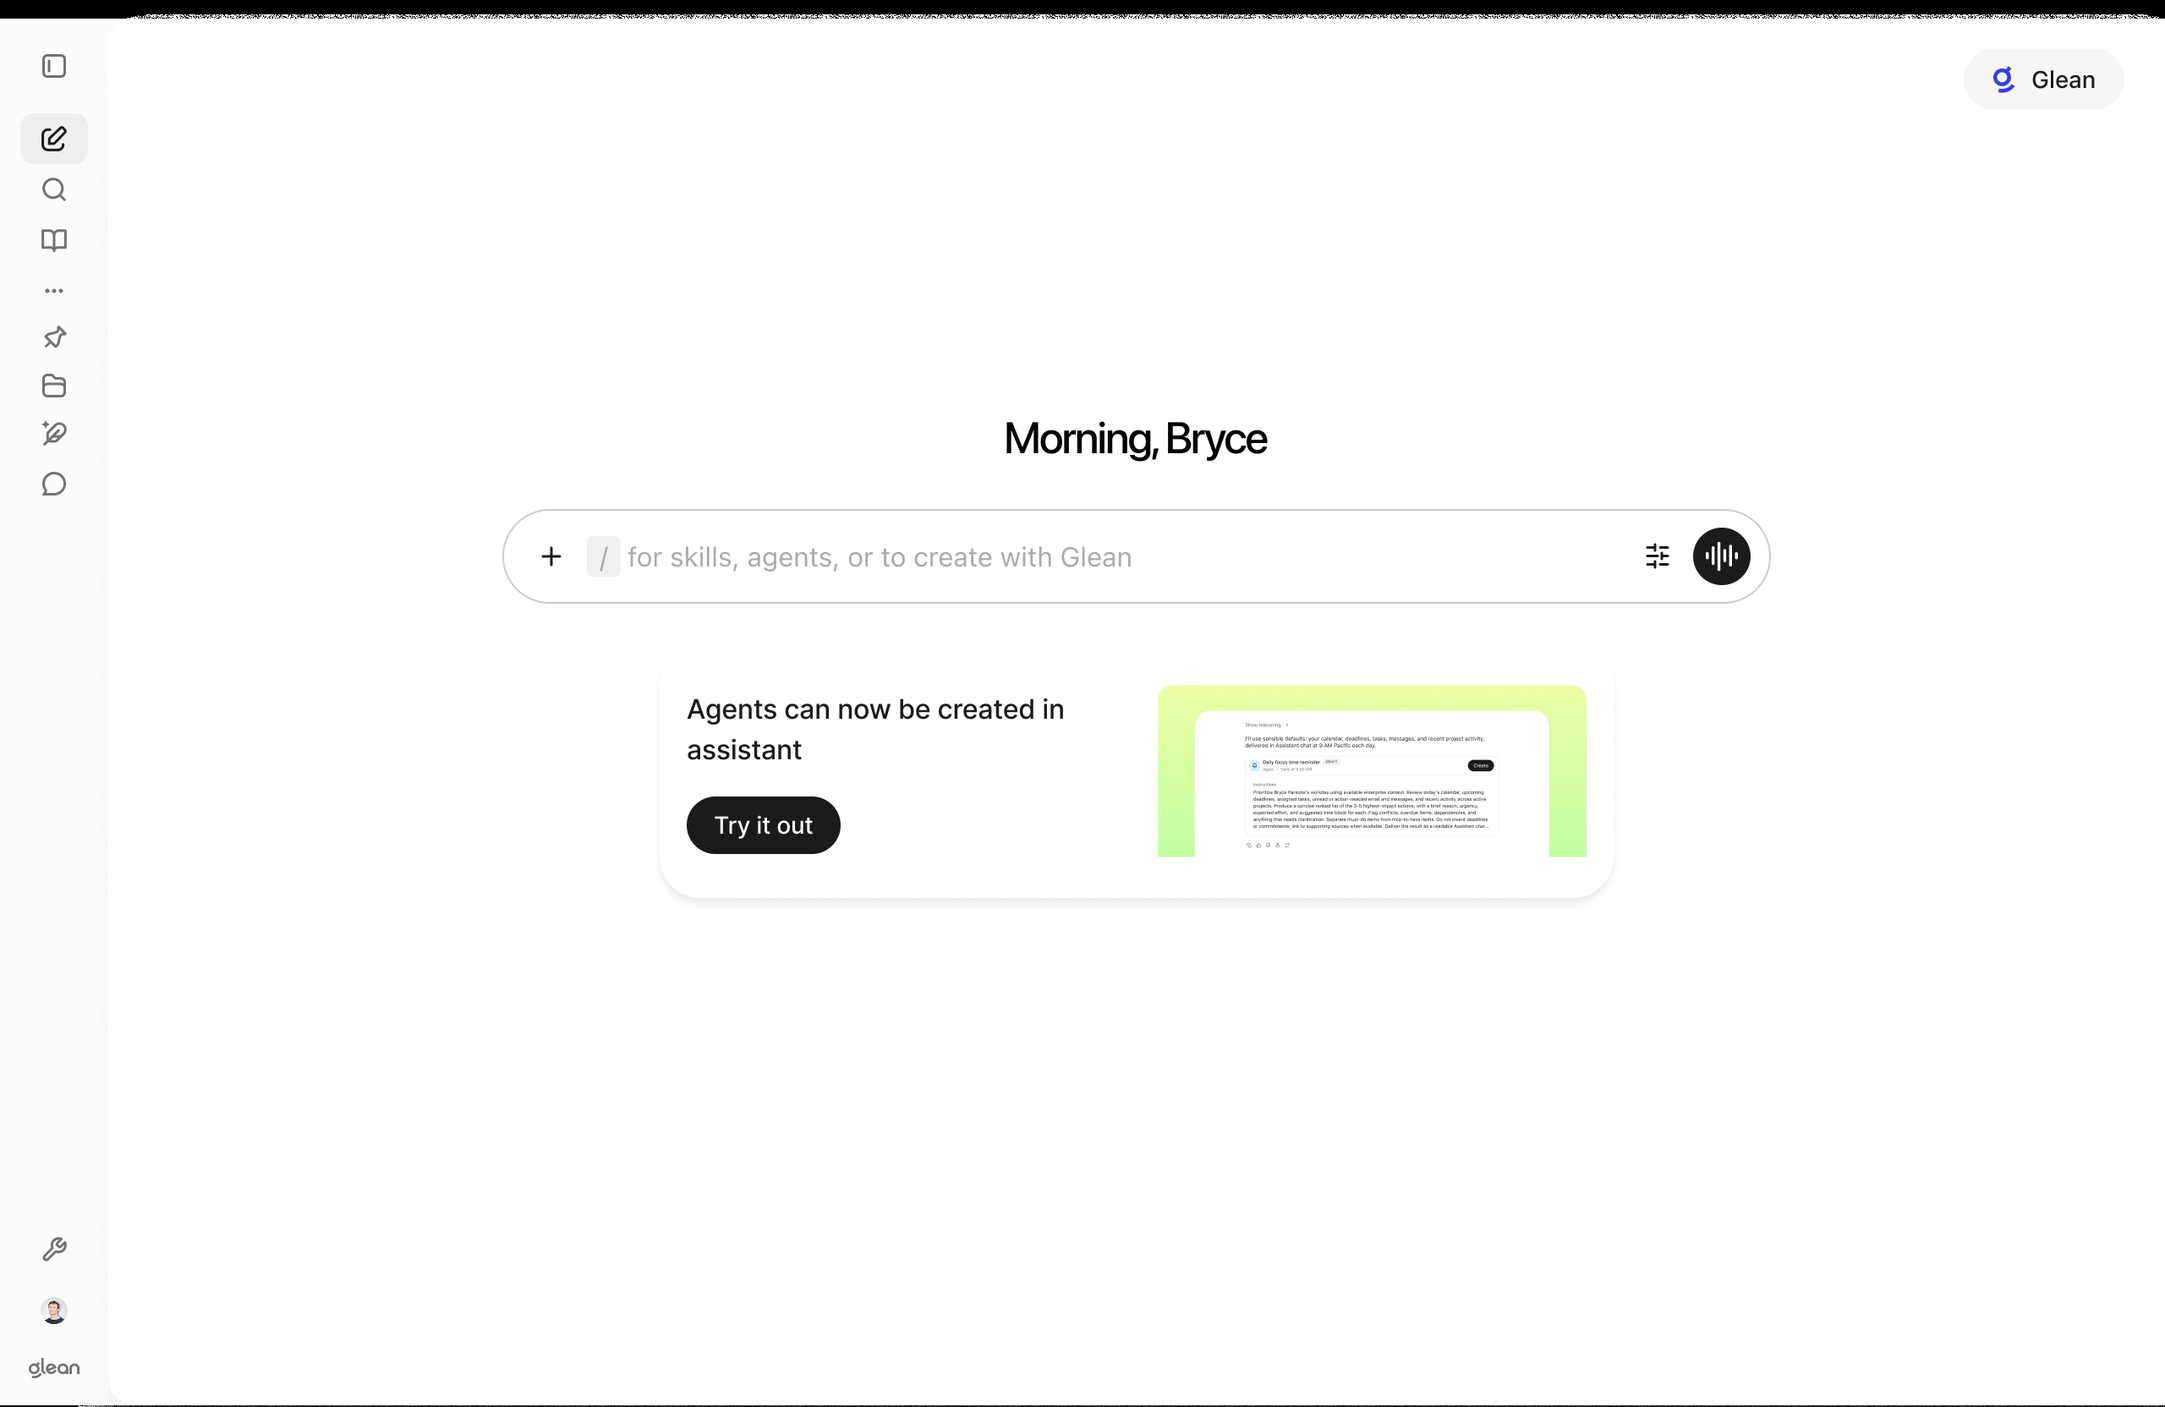
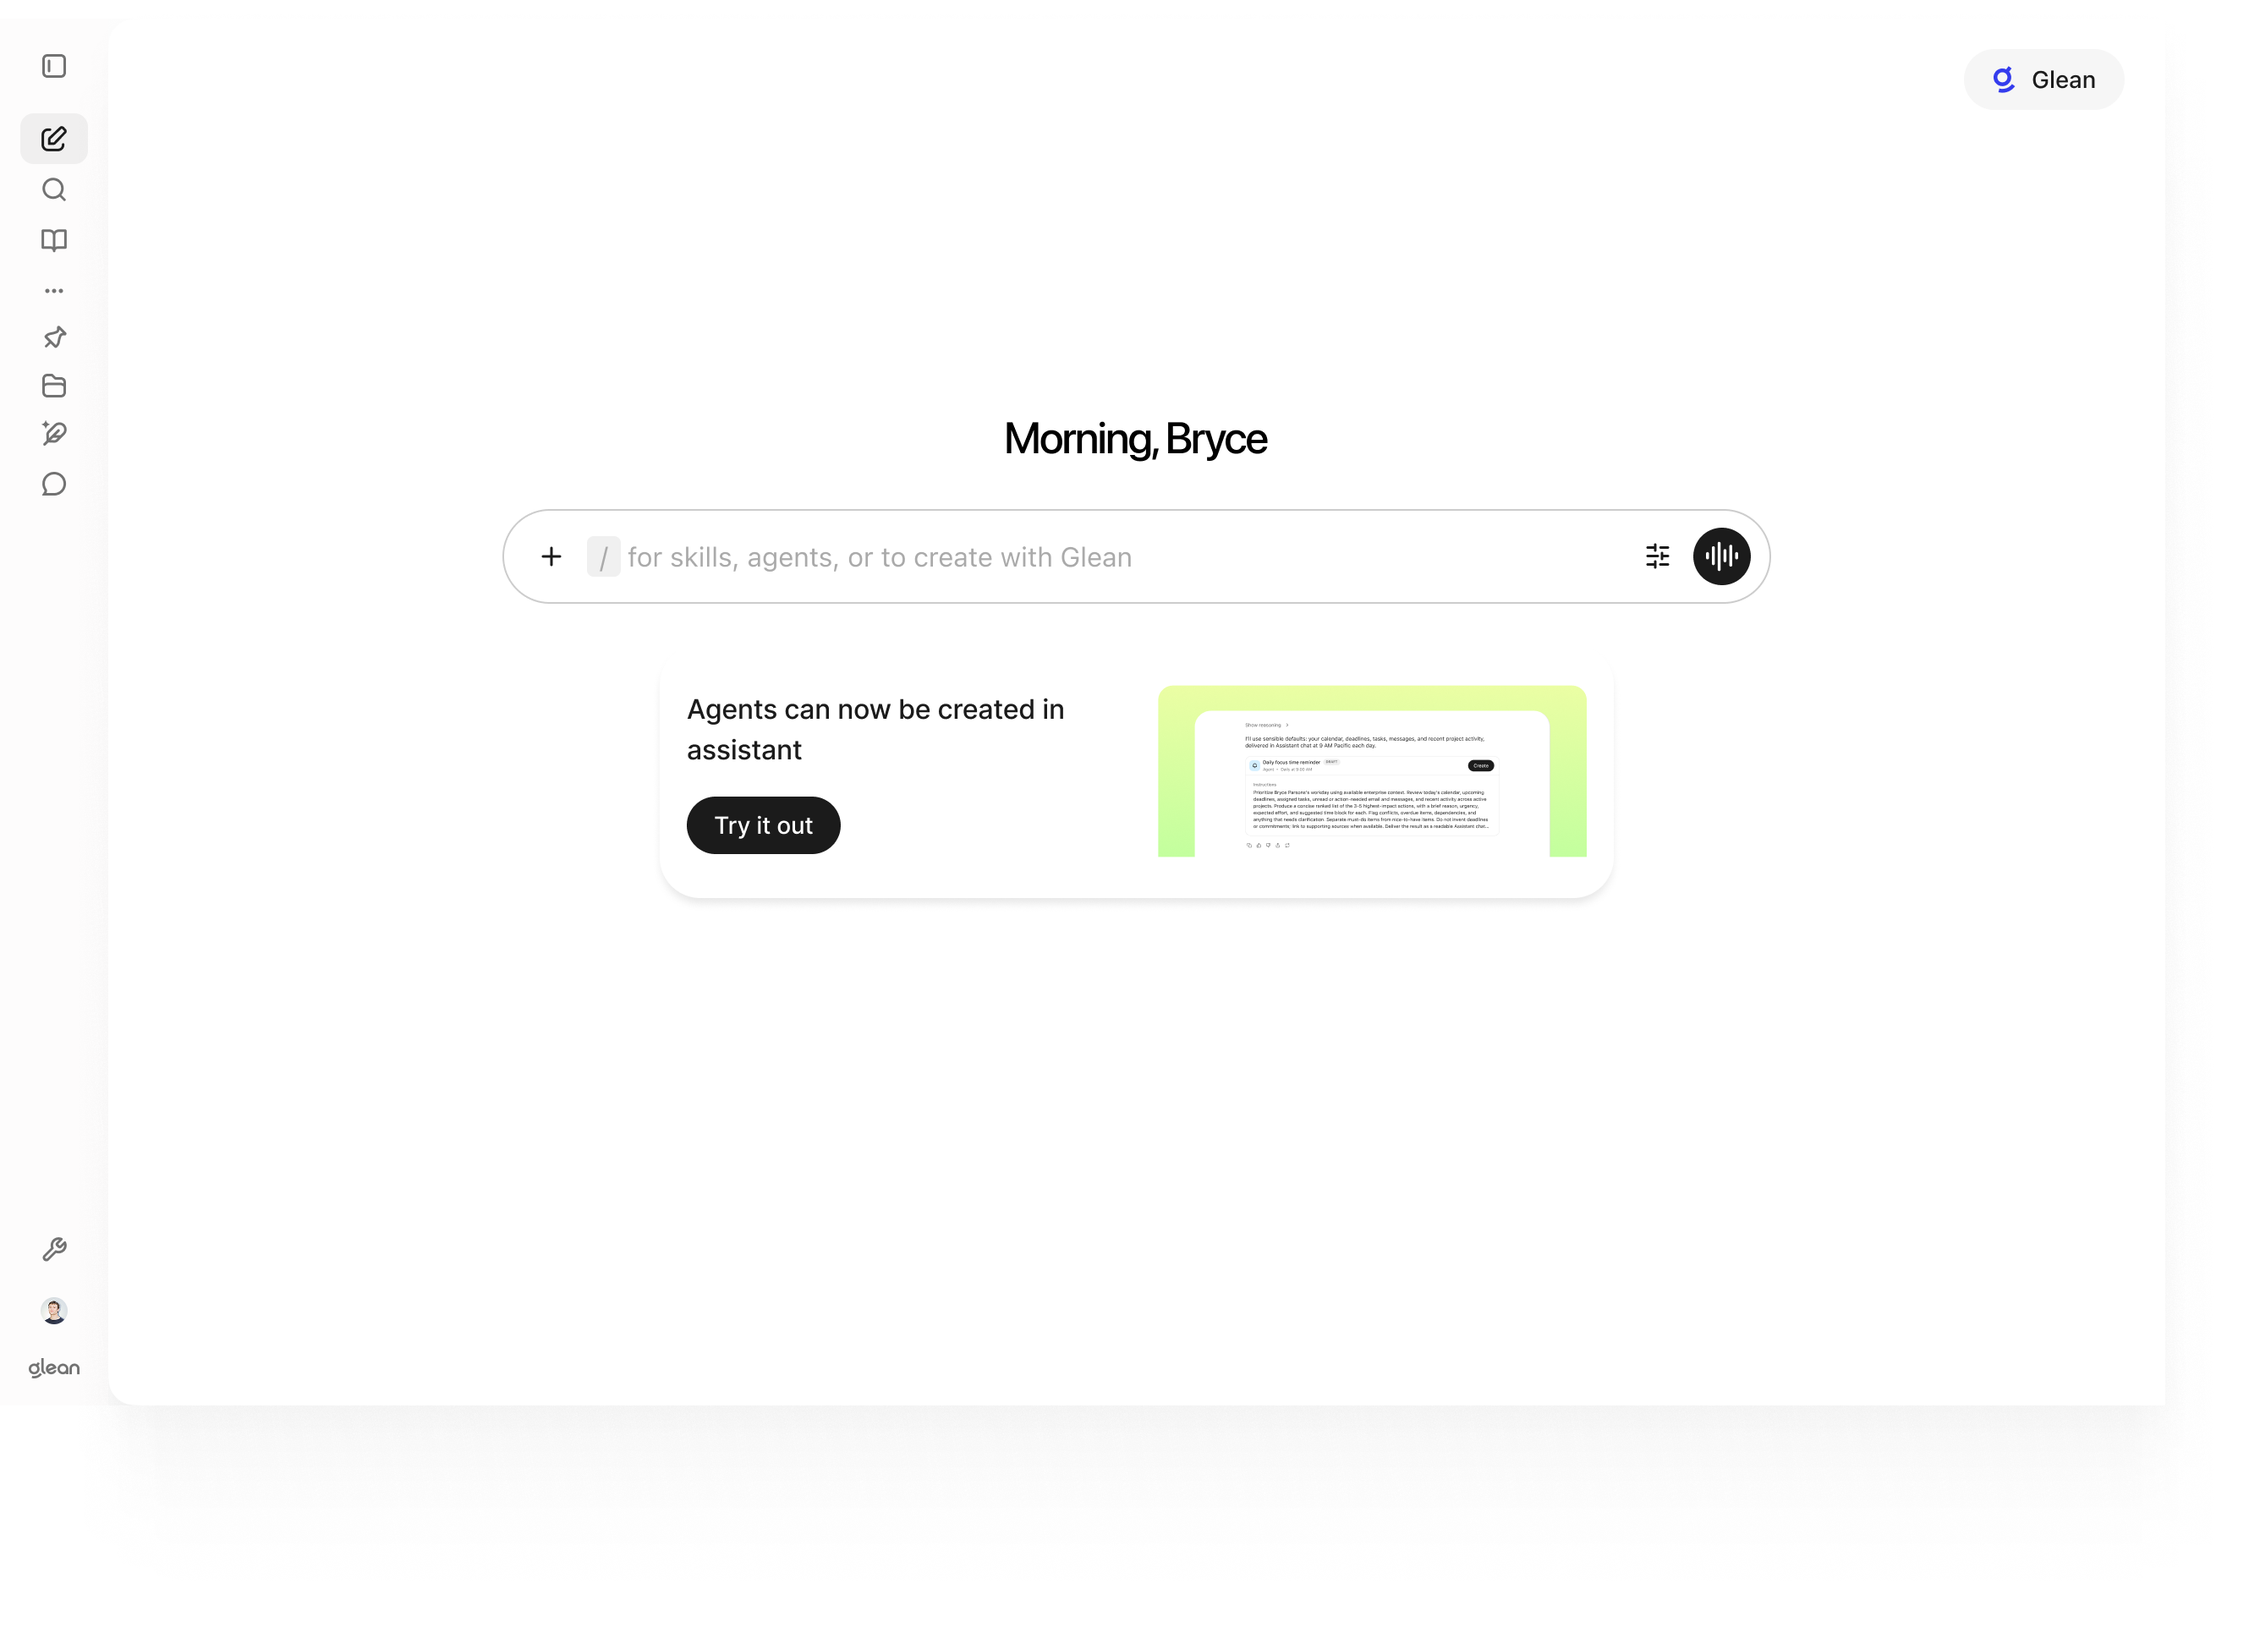
Use the composer hover card as the case preview
Hovering the Glean Composer redesign row shows this snapshot beside
the cursor.

diff --git a/index.html b/index.html
@@ -3264,7 +3264,7 @@
                 preview.className = 'case-hover-preview';
                 preview.setAttribute('aria-hidden', 'true');
                 var img = document.createElement('img');
-                img.src = 'Glean/composer-case-preview.png';
+                img.src = 'Glean/composer-case-preview.png?v=hover-card';
                 img.alt = '';
                 img.draggable = false;
                 preview.appendChild(img);
